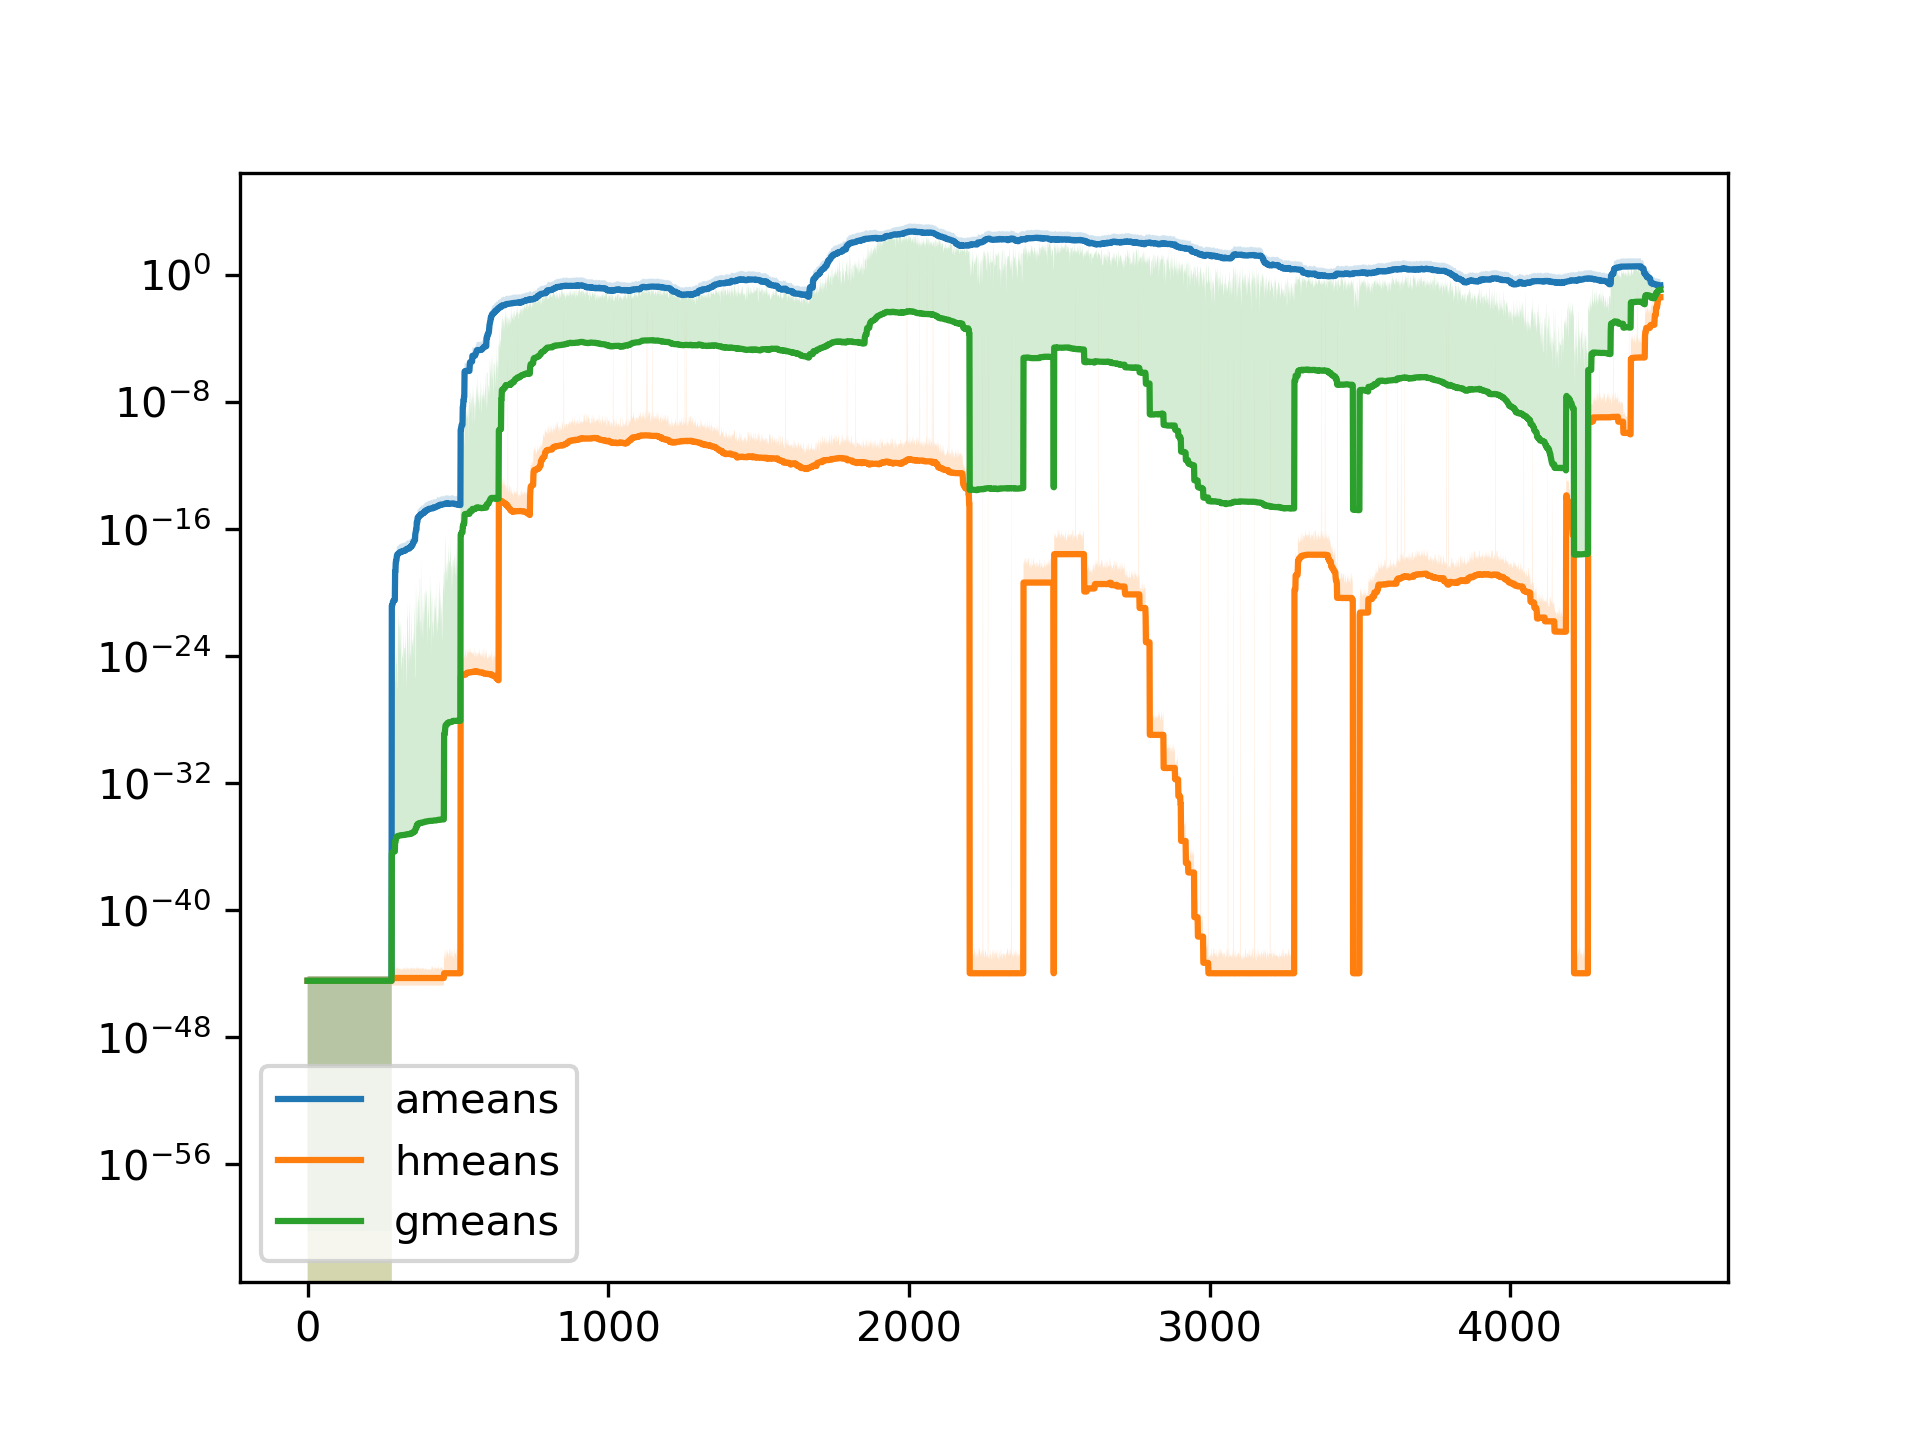
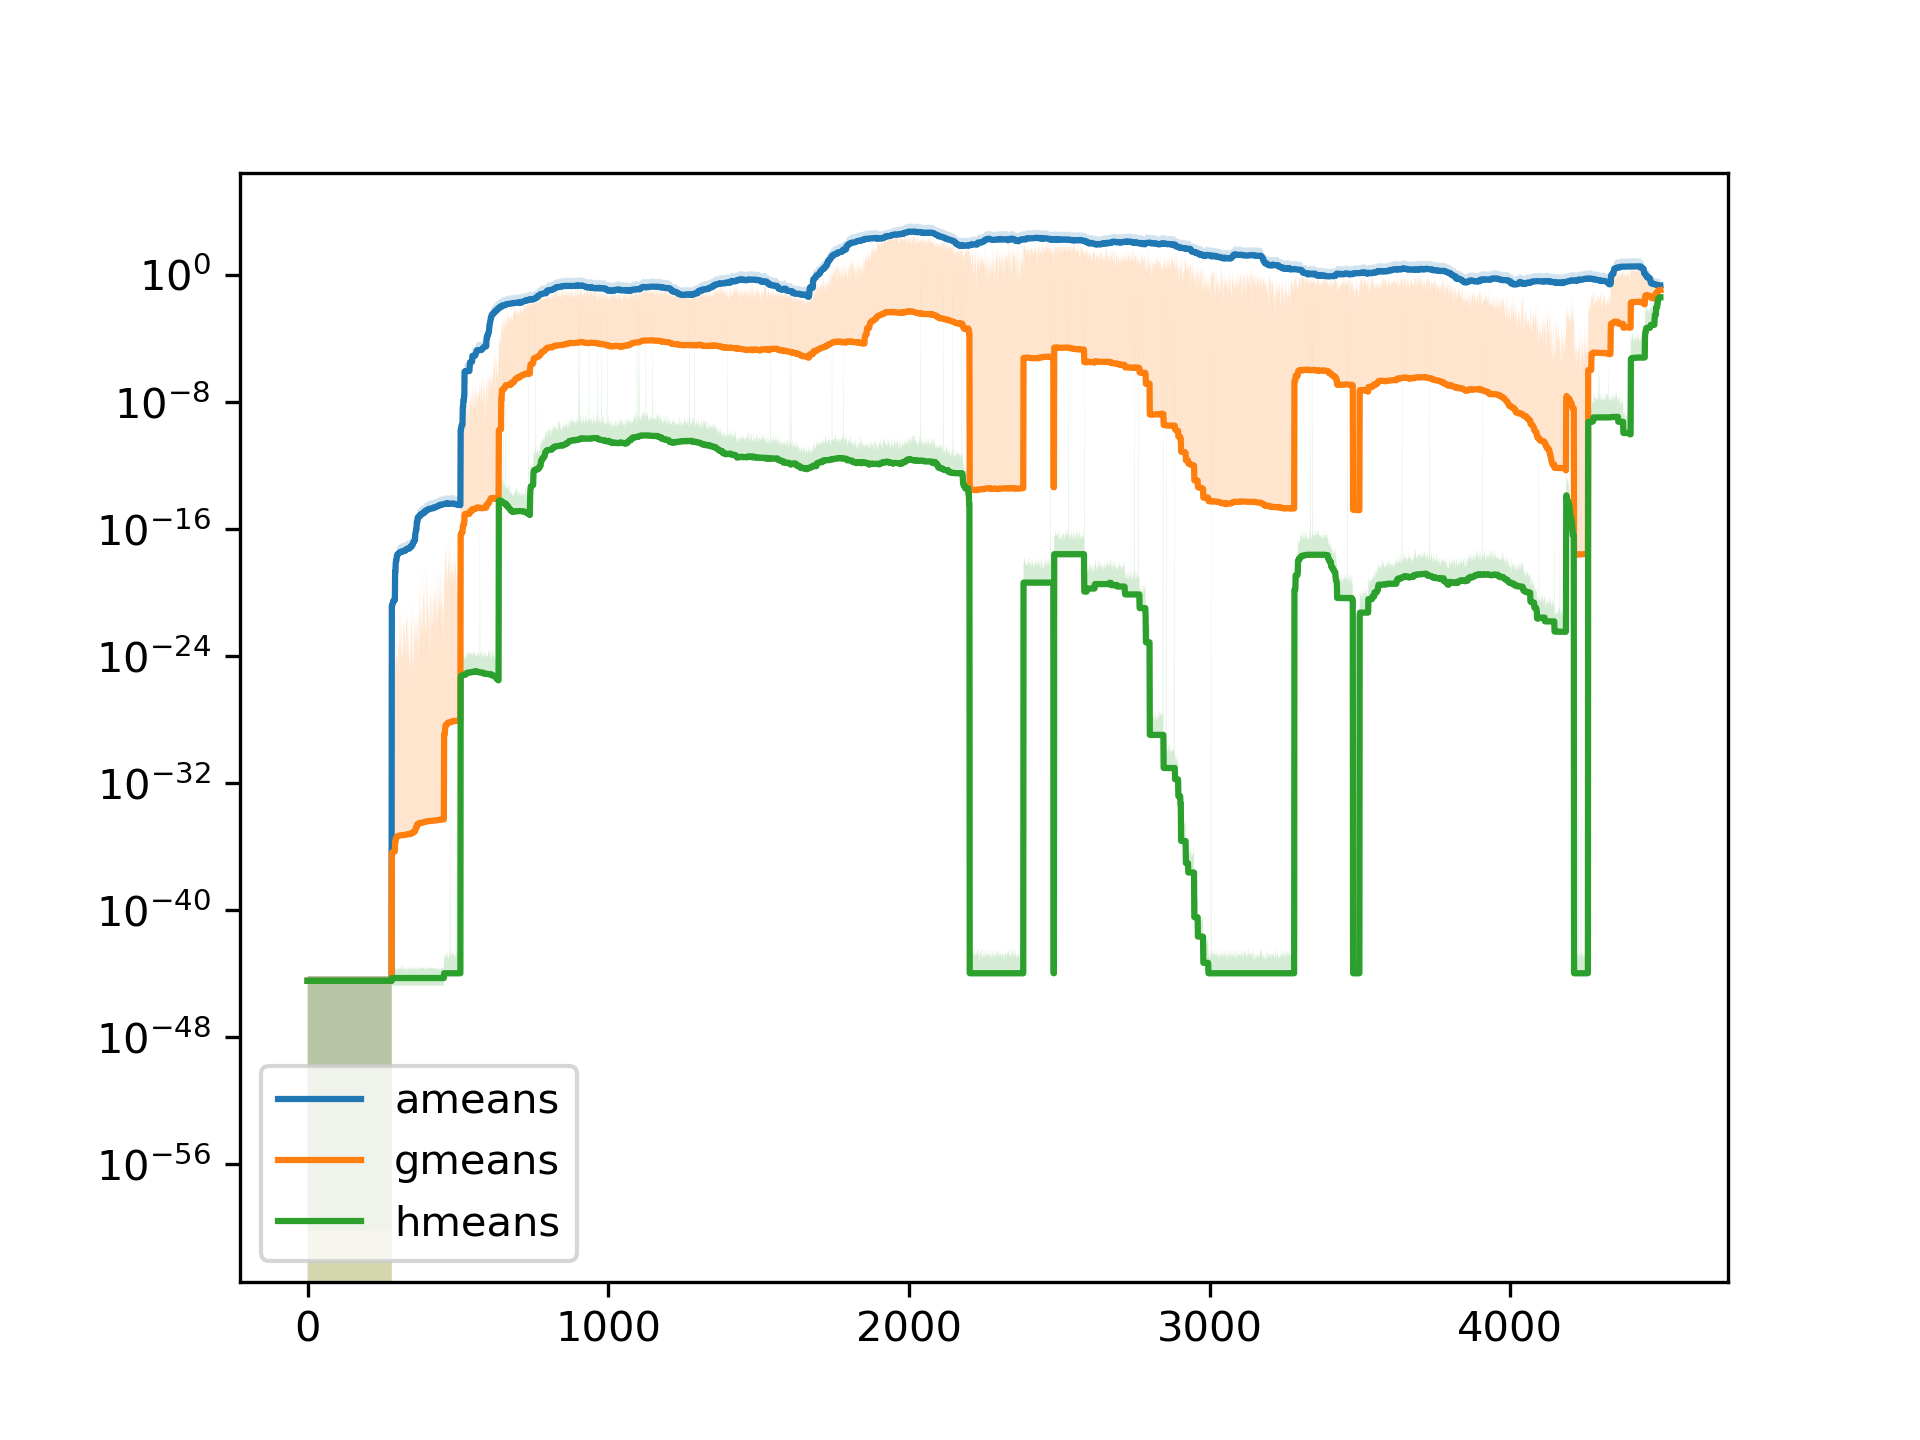
updated with wt 2kod mean comparison

Changed region(s): [[0.1875, 0.1562, 0.875, 0.6875], [0.1875, 0.8438, 0.2812, 0.875], [0.2188, 0.7812, 0.2812, 0.8125]]

diff --git a/plot_direct_h5.py b/plot_direct_h5.py
@@ -41,6 +41,7 @@ import matplotlib.pyplot as plt
 import h5py
 
 from scipy.stats import hmean
+from scipy.stats.mstats import gmean
 #from scipy.signal import savgol_filter
 
 plt.style.use("/Users/darian/github/wedap/wedap/styles/default.mplstyle")
@@ -704,7 +705,7 @@ for i in range(5):
 # hmean and error from bayesian bootstrapping
 #multi_k_avg = hmean(multi_k)
 from error.bootstrap import bayboot_multi
-multi_k_stderr = bayboot_multi(multi_k)
+multi_k_stderr = bayboot_multi(multi_k, repeat=1000)
 #multi_k_stderr = bayboot_multi(multi_k)
 
 # arithmetic mean
@@ -720,18 +721,30 @@ plt.plot(iterations, multi_k_avg)
 # plt.fill_between(iterations, multi_k_avg - multi_k_stderr, 
 #                  multi_k_avg + multi_k_stderr, alpha=0.5, label="WT")
 plt.fill_between(iterations, multi_k_avg - multi_k_stderr[:,0], 
-                 multi_k_avg + multi_k_stderr[:,1], alpha=0.5, label="WT")
+                 multi_k_avg + multi_k_stderr[:,1], alpha=0.5, label="AMEAN")
 #print(np.average(multi_k, axis=0).shape)
-print("WT AVG and STDERR: ", multi_k_avg[-1], multi_k_stderr[-1])
+#print("WT AVG and STDERR: ", multi_k_avg[-1], multi_k_stderr[-1])
+
+# comparing means
+multi_k_avg = gmean(multi_k, axis=0)
+multi_k_stderr = bayboot_multi(multi_k, gmean, repeat=1000)
+plt.plot(iterations, multi_k_avg)
+plt.fill_between(iterations, multi_k_avg - multi_k_stderr[:,0], 
+                 multi_k_avg + multi_k_stderr[:,1], alpha=0.5, label="GMEAN")
+multi_k_avg = hmean(multi_k, axis=0)
+multi_k_stderr = bayboot_multi(multi_k, hmean, repeat=1000)
+plt.plot(iterations, multi_k_avg)
+plt.fill_between(iterations, multi_k_avg - multi_k_stderr[:,0], 
+                 multi_k_avg + multi_k_stderr[:,1], alpha=0.5, label="HMEAN")
 
 # 19F
-k = Kinetics("oa1_oa2_c2/4F_v00/55oa_72c2/direct.h5", state=1, statepop="direct", ax=ax, label="4F", color="tab:red")
-print("4F AVG: ", k.plot_rate()[-1])
+# k = Kinetics("oa1_oa2_c2/4F_v00/55oa_72c2/direct.h5", state=1, statepop="direct", ax=ax, label="4F", color="tab:red")
+# print("4F AVG: ", k.plot_rate()[-1])
 # CIs
 # print(k.extract_rate()[1][-1])
 #print(k.extract_rate()[2][-1])
-k = Kinetics("oa1_oa2_c2/7F_v00/55oa_72c2/direct.h5", state=1, statepop="direct", ax=ax, label="7F", color="tab:green")
-print("7F AVG: ", k.plot_rate()[-1])
+# k = Kinetics("oa1_oa2_c2/7F_v00/55oa_72c2/direct.h5", state=1, statepop="direct", ax=ax, label="7F", color="tab:green")
+# print("7F AVG: ", k.plot_rate()[-1])
 #print(k.extract_rate()[2][-1])
 
 # multi class test
@@ -740,8 +753,10 @@ print("7F AVG: ", k.plot_rate()[-1])
 
 k.plot_exp_vals(f_range_all=True, ax=ax)
 plt.legend(loc=4, ncol=3)
-#ax.set_yscale("log", subs=[2, 3, 4, 5, 6, 7, 8, 9])
+ax.set_yscale("log", subs=[2, 3, 4, 5, 6, 7, 8, 9])
 #plt.ylim(0,5000)
+plt.xlabel("Molecular Time (ns)")
+plt.ylabel("Rate Constant (s$^{-1}$)")
 plt.tight_layout()
-plt.show()
-#plt.savefig("figures/updated_wt5_4f_7f.png", dpi=600, transparent=True)
+#plt.show()
+plt.savefig("figures/wt_mean_comp.png", dpi=300, transparent=True)

diff --git a/error/GetAvg_CR.py b/error/GetAvg_CR.py
@@ -24,16 +24,16 @@ CRs = bayboot_multi(rates, repeat=100)
 plt.plot(means, label="ameans")
 plt.fill_between([i for i in range(0,rates.shape[1])], means-CRs[:,0], means+CRs[:,1], alpha=0.2)
 
-# hmeans
-means = hmean(rates)
-CRs = bayboot_multi(rates, hmean, 100)
-plt.plot(means, label="hmeans")
-plt.fill_between([i for i in range(0,rates.shape[1])], means-CRs[:,0], means+CRs[:,1], alpha=0.2)
-
 # gmeans
 means = gmean(rates)
 CRs = bayboot_multi(rates, gmean, 100)
 plt.plot(means, label="gmeans")
+plt.fill_between([i for i in range(0,rates.shape[1])], means-CRs[:,0], means+CRs[:,1], alpha=0.2)
+
+# hmeans
+means = hmean(rates)
+CRs = bayboot_multi(rates, hmean, 100)
+plt.plot(means, label="hmeans")
 plt.fill_between([i for i in range(0,rates.shape[1])], means-CRs[:,0], means+CRs[:,1], alpha=0.2)
 
 # plotting
